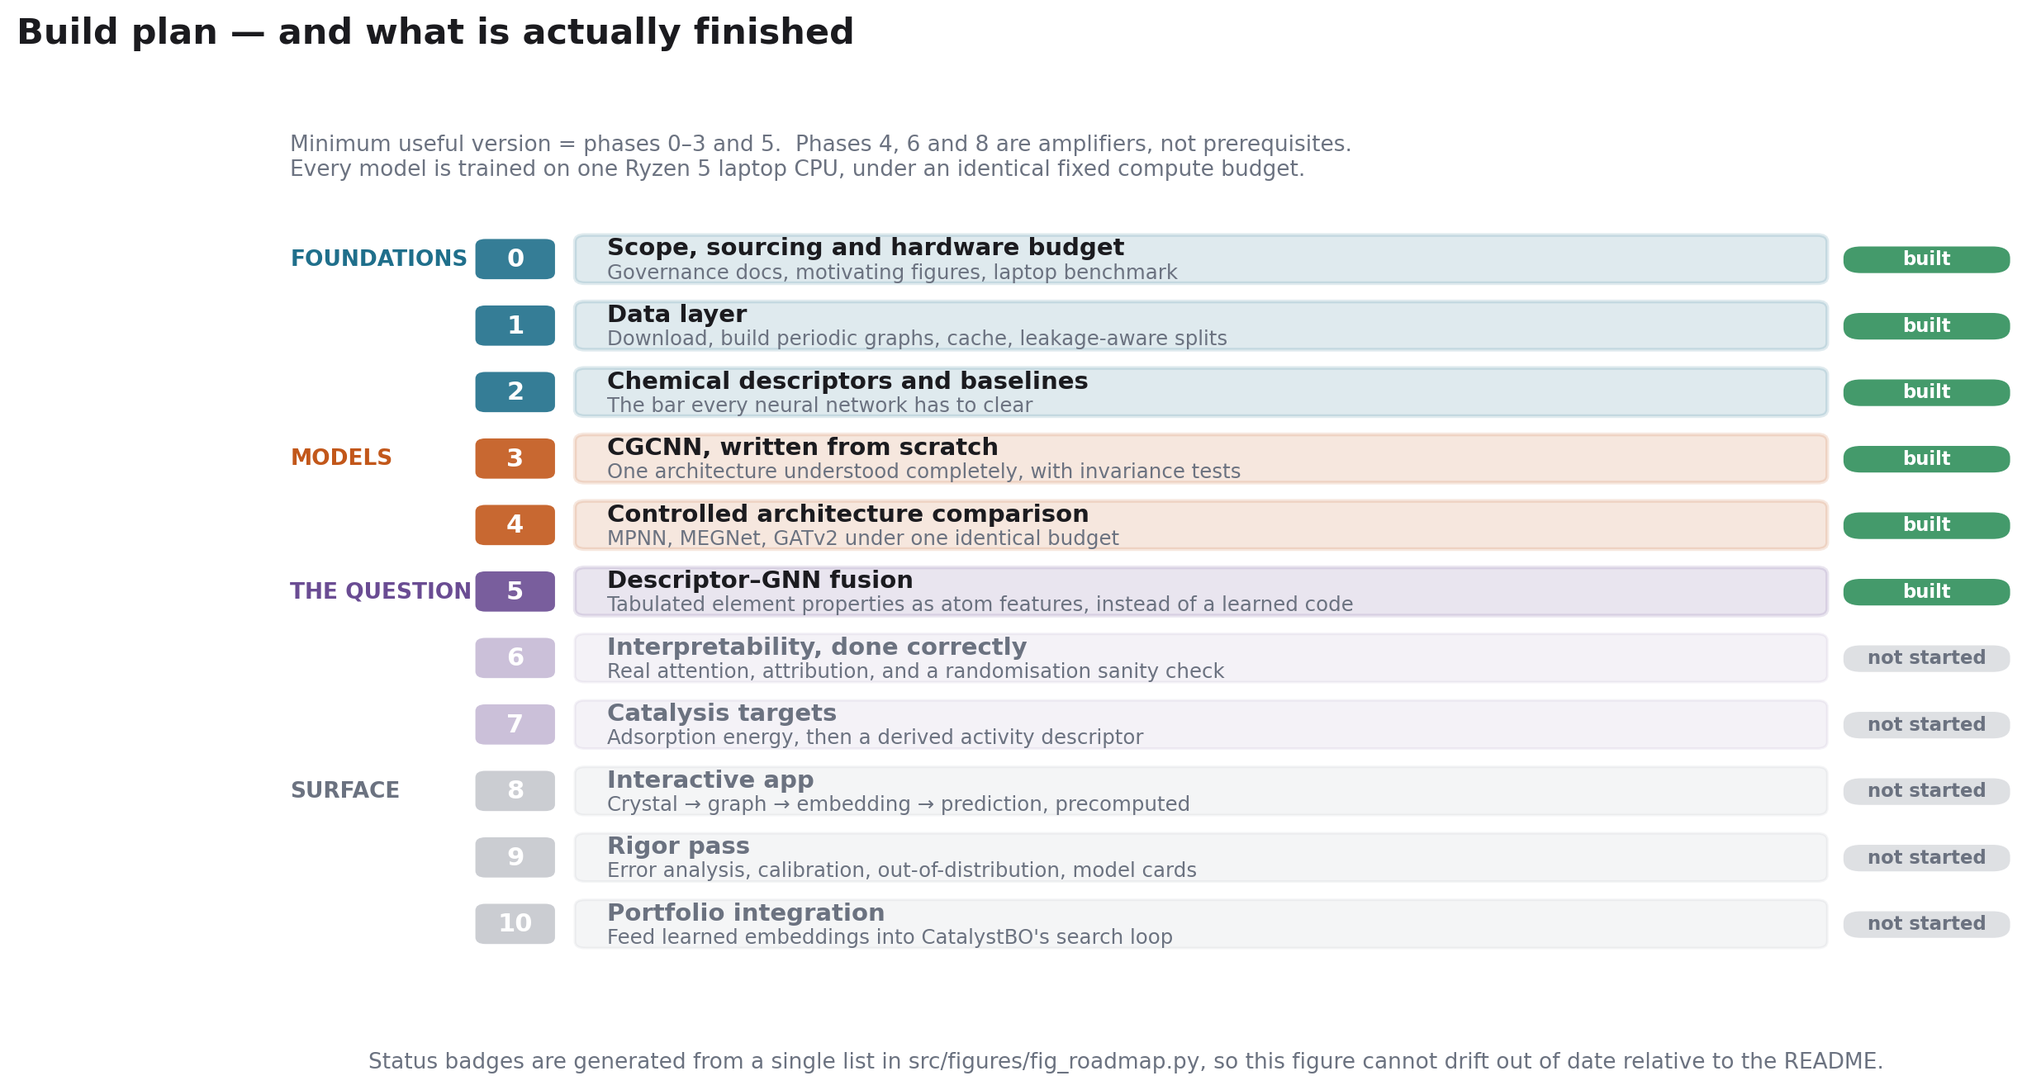
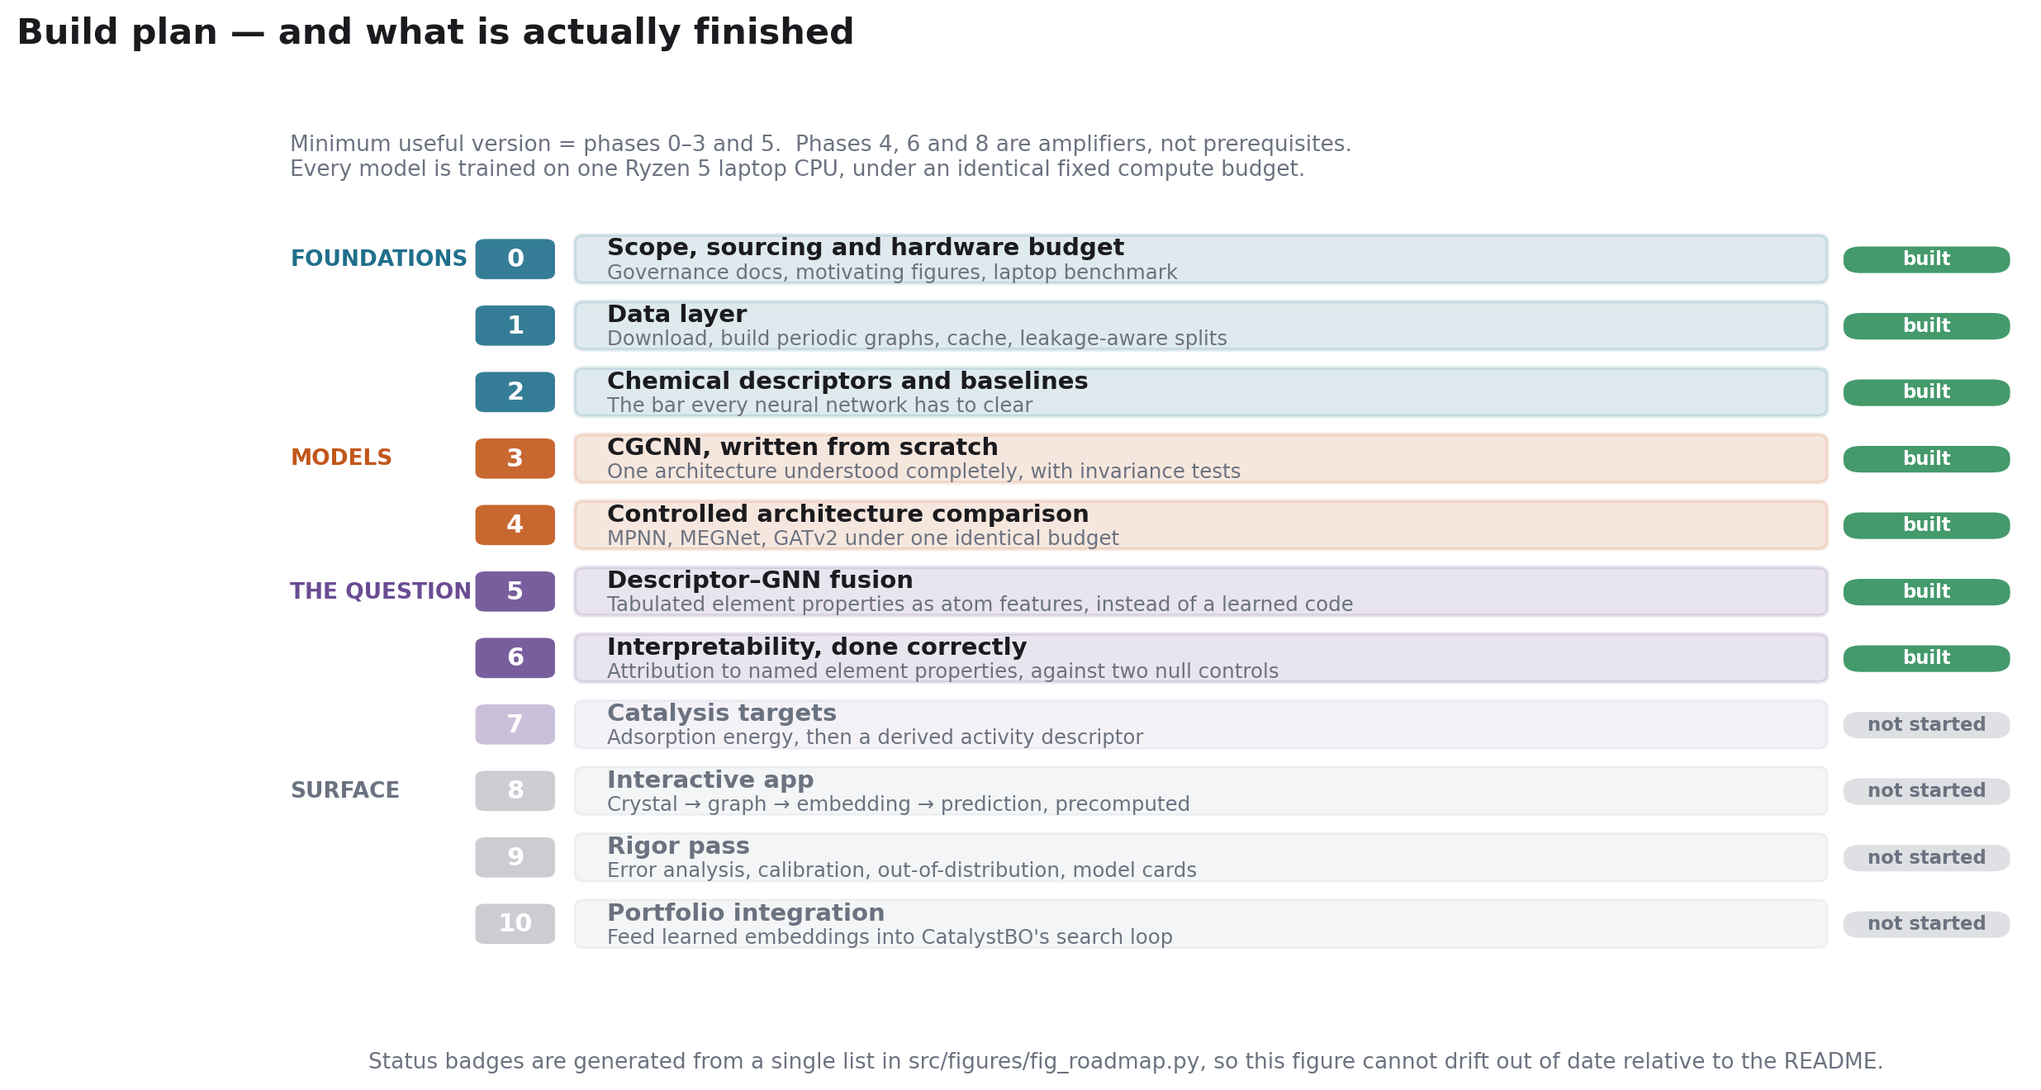
Phase 6 result: the model uses electron affinity, and ignores atomic mass
WHAT IT USED
------------
Raw attribution puts electronegativity first, which looks like a triumph until
the control does the same. A model trained on SHUFFLED band gaps also ranks
electronegativity first, so part of that ordering is the geometry of the property
table rather than anything learned. Reporting the raw ranking alone would have
been a mistake, and a flattering one.

Divided by the control, what training actually changed:

    electron affinity        13.8x
    Mendeleev number          4.6x
    is a lanthanide           4.2x
    is an actinide            3.1x
    is a transition metal     2.4x
    ...
    atomic number             0.4x
    atomic mass               0.3x

Electron affinity sets where a material's conduction band sits -- about as close
to the physical cause of a band gap as a single-element property gets -- and it
is the property training changed most. The Mendeleev number is next: a hand-built
ordering of the periodic table by chemical similarity, which is precisely the
structure a learned embedding failed to discover in Phase 5.

Atomic mass went DOWN to 0.3x. Mass correlates with nearly everything in the
periodic table and causes none of it; a model taking shortcuts would have leaned
on it. By family: electronic 41%, block 21%, size 17%, position 11%, thermal last
at 10% -- melting and boiling point being exactly the proxies a shortcut would
exploit.

THE CONTROLS, WHICH ARE THE ACTUAL CONTRIBUTION
[…]

Changed region(s): [[0.2181, 0.5591, 0.6232, 0.6212], [0.9037, 0.5902, 0.9972, 0.6212]]

diff --git a/src/figures/fig_attribution.py b/src/figures/fig_attribution.py
@@ -1,0 +1,242 @@
+"""Figure 14 -- which piece of chemistry the model actually used.
+
+Two rankings, because the naive one is misleading and the reason it is misleading
+is itself the interesting part.
+
+Panel A is raw attribution. Electronegativity tops it, which looks like a
+triumph -- until the control column shows that a model trained on SHUFFLED band
+gaps also puts electronegativity near the top. Some of that ranking is the
+geometry of the property table, not anything the model learned.
+
+Panel B divides by the control, leaving only what training changed. The picture
+that survives is sharper and more chemical than the raw one.
+
+Panel C is the sanity check, against a computed null rather than an assumed one.
+
+Run with:  python -m src.figures.fig_attribution
+"""
+
+from __future__ import annotations
+
+import json
+from pathlib import Path
+
+import matplotlib.pyplot as plt
+import numpy as np
+from matplotlib.patches import FancyBboxPatch, Patch
+
+from .style import (
+    use_house_style, caption,
+    STRUCTURE, COMPOSITION, FUSED, ACCENT, WARN, MUTED, INK, LIGHT,
+)
+from ..models.attribution import (cosine_null, enrichment, family_of, label_of,
+                                  profile_similarity, spearman)
+
+REPO = Path(__file__).resolve().parents[2]
+RESULTS = REPO / "results"
+OUT = RESULTS / "figures"
+
+FAMILY_COLOUR = {"electronic": ACCENT, "size": STRUCTURE, "position": FUSED,
+                 "block": COMPOSITION, "thermal": MUTED, "other": LIGHT}
+
+
+def load(split: str):
+    p = RESULTS / f"attribution_band_gap_{split}_nonmetals.json"
+    if not p.exists():
+        raise FileNotFoundError(
+            f"{p} missing. Run:\n    python scripts/explain.py --split {split}")
+    return json.loads(p.read_text(encoding="utf-8"))
+
+
+def panel_raw(ax, names, imp, ctrl_key):
+    """Raw attribution, with the control alongside so it cannot be over-read."""
+    t = imp["trained"] / imp["trained"].max()
+    c = imp[ctrl_key] / imp[ctrl_key].max()
+
+    top = np.argsort(-t)[:12]
+    y = np.arange(len(top)).astype(float)
+
+    ax.barh(y + 0.19, t[top], height=0.36, color=[FAMILY_COLOUR[family_of(names[j])]
+                                                  for j in top],
+            alpha=0.9, edgecolor="white", zorder=3)
+    ax.barh(y - 0.19, c[top], height=0.36, facecolor="none", edgecolor=WARN,
+            linewidth=1.4, hatch="///", zorder=3)
+
+    ax.set_yticks(y)
+    ax.set_yticklabels([label_of(names[j]) for j in top], fontsize=8.6)
+    ax.invert_yaxis()
+    ax.set_xlim(0, 1.14)
+    ax.set_xlabel("Share of the prediction it moved  (1.0 = the largest)")
+    ax.set_title("A.  Raw attribution — and why it cannot be read alone",
+                 loc="left", pad=22)
+    ax.grid(True, axis="x", alpha=0.4)
+    ax.set_axisbelow(True)
+    ax.tick_params(axis="y", length=0)
+
+    ax.legend(handles=[
+        Patch(facecolor=MUTED, label="the trained model"),
+        Patch(facecolor="none", edgecolor=WARN, hatch="///",
+              label="trained on SHUFFLED band gaps — learned nothing"),
+    ], fontsize=8.2, loc="lower right", framealpha=0.96)
+
+    ax.text(0.0, 1.035,
+            "the control ranks electronegativity first too — so this ranking is "
+            "partly the shape of the input table",
+            transform=ax.transAxes, fontsize=8.2, color=WARN, fontweight="bold",
+            ha="left", va="bottom")
+
+
+def panel_enrichment(ax, names, imp, ctrl_key):
+    """What training actually changed."""
+    e = enrichment(imp["trained"], imp[ctrl_key])
+    order = np.argsort(-e)
+    show = np.concatenate([order[:8], order[-4:]])
+    y = np.arange(len(show)).astype(float)
+
+    for yi, j in zip(y, show):
+        up = e[j] >= 1.0
+        ax.barh(yi, e[j], height=0.62,
+                color=FAMILY_COLOUR[family_of(names[j])] if up else MUTED,
+                alpha=0.9 if up else 0.55, edgecolor="white", zorder=3)
+        ax.text(e[j] + 0.18, yi, f"{e[j]:.1f}×", fontsize=8.6, fontweight="bold",
+                color=FAMILY_COLOUR[family_of(names[j])] if up else MUTED,
+                ha="left", va="center", zorder=6)
+
+    ax.axvline(1.0, color=INK, lw=1.6, zorder=5)
+    ax.text(1.15, y[0] - 0.95, "1.0 = training changed nothing", fontsize=8.0,
+            color=INK, ha="left", va="center")
+
+    ax.set_yticks(y)
+    ax.set_yticklabels([label_of(names[j]) for j in show], fontsize=8.6)
+    ax.set_ylim(len(show) - 0.4, -1.35)
+    ax.set_xlim(0, max(e[show]) * 1.22)
+    ax.set_xlabel("Attribution relative to the shuffled-label control")
+    ax.set_title("B.  What training actually changed", loc="left", pad=22)
+    ax.grid(True, axis="x", alpha=0.4)
+    ax.set_axisbelow(True)
+    ax.tick_params(axis="y", length=0)
+
+    # A visible break, so nobody reads the bottom four as ranks 9-12.
+    ax.axhline((y[7] + y[8]) / 2, color=MUTED, ls=":", lw=1.3, zorder=5)
+    ax.text(max(e[show]) * 1.19, (y[7] + y[8]) / 2 - 0.30,
+            "the four training pushed DOWN", fontsize=7.8, color=MUTED,
+            ha="right", va="bottom", style="italic")
+
+
+def panel_checks(ax, names, imp, blob):
+    ax.set_xlim(0, 10)
+    ax.set_ylim(0, 10)
+    ax.axis("off")
+    ax.set_title("C.  Does it just reproduce a control?", loc="left", pad=10)
+
+    null = cosine_null(len(names))
+    ax.text(0.1, 9.0,
+            f"Two UNRELATED non-negative profiles of {len(names)} numbers already\n"
+            f"score cosine {null['mean']:.2f} (90% of draws {null['p05']:.2f}–{null['p95']:.2f}). "
+            f"So a cosine near 0.8\nmeans nothing on its own. Spearman has its null at 0.",
+            fontsize=8.4, color=MUTED, ha="left", va="top", linespacing=1.6)
+
+    rows = [(k, imp[k]) for k in ("untrained", "shuffled_labels") if k in imp]
+    ax.text(0.1, 6.3, f"{'control':<20}{'cosine':>10}{'Spearman':>13}",
+            fontsize=8.6, fontweight="bold", color=INK, ha="left", va="center",
+            family="DejaVu Sans Mono")
+    for i, (k, v) in enumerate(rows):
+        cos = profile_similarity(imp["trained"], v)
+        rho = spearman(imp["trained"], v)
+        inside = null["p05"] <= cos <= null["p95"]
+        ax.text(0.1, 5.4 - i * 0.9,
+                f"{k:<20}{cos:>10.3f}{rho:>13.3f}",
+                fontsize=8.6, color=INK, ha="left", va="center",
+                family="DejaVu Sans Mono")
+        ax.text(7.6, 5.4 - i * 0.9,
+                "ordinary" if inside or cos < null["p05"] else "high",
+                fontsize=8.0, color=ACCENT if inside or cos < null["p05"] else WARN,
+                ha="left", va="center")
+
+    ax.add_patch(FancyBboxPatch(
+        (0.05, 1.1), 9.9, 2.2, boxstyle="round,pad=0.12,rounding_size=0.15",
+        facecolor=ACCENT, alpha=0.10, edgecolor=ACCENT, linewidth=1.5, zorder=2))
+    ax.text(0.35, 2.75, "Passes.", fontsize=9.6, fontweight="bold",
+            color=ACCENT, ha="left", va="center", zorder=6)
+    ax.text(0.35, 1.85,
+            "Neither control reproduces the trained ranking, so the\n"
+            "attribution describes this model rather than the method.",
+            fontsize=8.4, color=INK, ha="left", va="center", linespacing=1.55,
+            zorder=6)
+
+
+def panel_families(ax, names, imp):
+    t = imp["trained"]
+    fam = {}
+    for j, n in enumerate(names):
+        fam[family_of(n)] = fam.get(family_of(n), 0.0) + t[j]
+    total = sum(fam.values()) or 1.0
+    items = sorted(fam.items(), key=lambda kv: -kv[1])
+
+    left = 0.0
+    for name, v in items:
+        w = 100 * v / total
+        ax.barh(0, w, left=left, height=0.55, color=FAMILY_COLOUR[name],
+                alpha=0.9, edgecolor="white", zorder=3)
+        if w > 7:
+            ax.text(left + w / 2, 0, f"{name}\n{w:.0f}%", fontsize=8.2,
+                    fontweight="bold", color="white", ha="center", va="center",
+                    zorder=6, linespacing=1.4)
+        left += w
+
+    ax.set_xlim(0, 100)
+    ax.set_ylim(-0.5, 0.5)
+    ax.set_yticks([])
+    ax.set_xlabel("Share of all attribution  (%)")
+    ax.set_title("D.  Which kind of chemistry", loc="left", pad=8)
+    for side in ("left", "right", "top"):
+        ax.spines[side].set_visible(False)
+
+
+def main(split: str = "random") -> None:
+    use_house_style()
+    blob = load(split)
+    names = blob["properties"]
+    imp = {k: np.array(v["mean_abs"]) for k, v in blob["models"].items()}
+    ctrl_key = "shuffled_labels" if "shuffled_labels" in imp else "untrained"
+
+    fig = plt.figure(figsize=(15.8, 10.2))
+    gs = fig.add_gridspec(2, 2, height_ratios=[1.0, 0.62],
+                          width_ratios=[1.0, 1.0],
+                          left=0.115, right=0.975, top=0.845, bottom=0.135,
+                          hspace=0.42, wspace=0.30)
+
+    panel_raw(fig.add_subplot(gs[0, 0]), names, imp, ctrl_key)
+    panel_enrichment(fig.add_subplot(gs[0, 1]), names, imp, ctrl_key)
+    panel_checks(fig.add_subplot(gs[1, 0]), names, imp, blob)
+    panel_families(fig.add_subplot(gs[1, 1]), names, imp)
+
+    fig.suptitle("The model learned the chemistry a chemist would have picked",
+                 fontsize=16.0, fontweight="bold", y=0.995, x=0.006, ha="left")
+    fig.text(0.006, 0.947,
+             f"Band-gap predictions attributed to the 31 tabulated element properties each atom starts from. "
+             f"Integrated gradients over {blob['n_crystals']:,} test crystals, {blob['split']} split.",
+             fontsize=9.4, color=MUTED, ha="left", va="top")
+
+    caption(
+        fig,
+        "Electron affinity is the quantity that sets where a material's conduction band sits, and it is the single property training changed most — the model leans on it "
+        "roughly fourteen times\nharder than one that learned nothing. Next come the Mendeleev number, a hand-built ordering of the periodic table by chemical similarity, and the "
+        "f-block and transition-metal flags.\nMeanwhile atomic mass — which correlates with almost everything in the periodic table and causes none of it — is DOWN-weighted to 0.3×. "
+        "A model taking shortcuts would have done\nthe opposite. Raw attribution alone would not have shown this: the control ranks electronegativity first too, so panel A is partly "
+        "the shape of the input table rather than the model.",
+        y=0.012)
+
+    OUT.mkdir(parents=True, exist_ok=True)
+    path = OUT / "fig14_what_chemistry.png"
+    fig.savefig(path)
+    plt.close(fig)
+    print(f"wrote {path}")
+
+    e = enrichment(imp["trained"], imp[ctrl_key])
+    for j in np.argsort(-e)[:5]:
+        print(f"  {label_of(names[j]):<26}{e[j]:>6.1f}x")
+
+
+if __name__ == "__main__":
+    main()

diff --git a/src/figures/fig_roadmap.py b/src/figures/fig_roadmap.py
@@ -45,7 +45,7 @@ PHASES = [
     ("The question", 5, "Descriptor–GNN fusion",
      "Tabulated element properties as atom features, instead of a learned code", DONE),
     ("The question", 6, "Interpretability, done correctly",
-     "Real attention, attribution, and a randomisation sanity check", TODO),
+     "Attribution to named element properties, against two null controls", DONE),
     ("The question", 7, "Catalysis targets",
      "Adsorption energy, then a derived activity descriptor", TODO),
     ("Surface", 8, "Interactive app",

diff --git a/scripts/make_figures.py b/scripts/make_figures.py
@@ -38,6 +38,7 @@ FIGURES = {
     11: ("src.figures.fig_message_rules", "How each architecture weights a bond"),
     12: ("src.figures.fig_fusion", "Does the periodic table fix the collapse?"),
     13: ("src.figures.fig_what_is_an_ev", "What an error of 0.4 eV actually means"),
+    14: ("src.figures.fig_attribution", "Which chemistry the model actually used"),
 }
 
 

diff --git a/LIMITATIONS.md b/LIMITATIONS.md
@@ -83,13 +83,32 @@ attributions, and calls them that.
 ## 6. Interpretability results are not explanations of physics
 
 Attribution methods explain *the model*, not the material. A model can attribute
-importance to the chemically "right" atoms while having learned the relationship for
-the wrong reasons.
+importance to the chemically "right" properties while having learned the
+relationship for the wrong reasons, and the attribution would look identical.
 
-Phase 6 therefore includes a randomisation control: retrain on shuffled labels and
-re-run the attributions. If they still look plausible, they were never explaining
-anything. Interpretability results are reported alongside that control, and any case
-where methods disagreed is reported rather than quietly dropped.
+Phase 6 is reported against two controls — an untrained model, and one trained to
+convergence on shuffled labels (R² = −0.04, so it genuinely learned nothing).
+Rank correlation with the trained profile is +0.08 and +0.34, so neither
+reproduces it. That is the strongest statement the design supports: **the ranking
+describes this model rather than the attribution method**. It is not evidence
+about band-gap physics.
+
+Three specific caveats on the Phase 6 numbers:
+
+- **Raw importance is partly input geometry.** The shuffled control also ranks
+  electronegativity first. Only the control-corrected column ("what training
+  changed") should be read as being about the model, and the README leads with
+  that rather than the raw ranking.
+- **The enrichment ratio has an arbitrary floor.** Dividing by a control value
+  near zero would explode, so a floor of 0.02 is added to the denominator. That
+  caps the largest achievable enrichment and makes the exact multiple — 13.8×
+  for electron affinity — sensitive to the floor. The *ordering* is not.
+- **One seed, one split, 2,000 crystals.** Attribution was run on the random
+  split only, on a sample of the test set, from a single trained model. The
+  headline ordering is stable enough to report; specific multiples are not.
+
+My first version of this check also used invented thresholds and called an
+ordinary result "borderline" — see §16.
 
 ## 7. The activity descriptor amplifies error
 
@@ -250,7 +269,28 @@ shows, and the variant comparison beneath it is a single-split result. It would 
 reasonable to expect `both` to trail `properties` on the easier splits too, by a
 smaller margin; that has not been measured and the figure does not imply it.
 
-## 16. Single author, no independent replication
+## 16. A sanity check with a guessed threshold is not a sanity check
+
+The Phase 6 control originally compared importance profiles by cosine similarity
+with hand-picked thresholds: above 0.9 suspicious, below 0.7 fine. It reported
+the shuffled-label control at **0.785 — "borderline"**, which reads as a
+half-failed sanity check.
+
+It was nothing of the sort. Importance profiles are **non-negative by
+construction**, and two *unrelated* non-negative vectors of length 31 score a
+cosine of **0.753** on average (0.654–0.840 for 90% of draws). Both observed
+values sit inside that band. The thresholds had been chosen on the intuition that
+unrelated vectors score near zero — true for signed vectors, false here — so the
+check was mis-calibrated in the direction that manufactures an alarming number.
+
+Fixed by computing the null by sampling rather than assuming it, and by reporting
+Spearman rank correlation alongside, whose null is zero regardless of sign.
+
+Recorded because the failure mode is general and easy to repeat: a threshold that
+feels right, on a statistic whose null distribution was never checked, in a test
+whose entire purpose is to be harder to pass than the thing it guards.
+
+## 17. Single author, no independent replication
 
 Everything here was built and checked by one person. The mitigations — assertions
 that fail loudly, figures regenerated from source data rather than hand-edited, CI on

diff --git a/README.md b/README.md
@@ -363,7 +363,68 @@ that worked.
 > periodic trends, and falls apart the moment it meets an element outside its
 > training set. Handing it the periodic table costs nothing and fixes that.
 
-### 6. Two bugs that would have been completely silent
+### 6. So which chemistry did it actually use?
+
+![What chemistry](results/figures/fig14_what_chemistry.png)
+
+§5 showed the tabulated properties help. It did not say **which** ones — and "the
+model uses chemistry" is not a finding until you can name the chemistry.
+
+That question is only askable because of §5. When each atom started from a
+learned 64-number code there was nothing to attribute a prediction *to*: the
+numbers had no names and, as the diagnostic showed, no chemical structure either.
+Now every atom starts from 31 quantities with names and units.
+
+**The naive answer is misleading, and that is the interesting part.** Raw
+attribution puts electronegativity first — which looks like a triumph, until you
+run the same procedure on a model trained on **shuffled** band gaps and it puts
+electronegativity first too. Part of that ranking is the geometry of the property
+table, not anything the model learned.
+
+Dividing by the control leaves only what training changed:
+
+| Property | vs. a model that learned nothing |
+|---|---|
+| **Electron affinity** | **13.8×** |
+| Mendeleev number | 4.6× |
+| is a lanthanide | 4.2× |
+| is an actinide | 3.1× |
+| is a transition metal | 2.4× |
+| … | |
+| atomic number | 0.4× |
+| **atomic mass** | **0.3×** |
+
+**Electron affinity is the quantity that sets where a material's conduction band
+sits** — it is about as close to the physical cause of a band gap as a
+single-element property gets, and it is the one training changed most. Next is
+the **Mendeleev number**, a hand-built ordering of the periodic table by chemical
+similarity, then the f-block and transition-metal flags.
+
+**And atomic mass was pushed *down* to 0.3×.** Mass correlates with almost
+everything in the periodic table and causes none of it. A model taking shortcuts
+would have leaned on it. This one did the opposite.
+
+By family: **electronic 41%**, block 21%, size 17%, position 11%, and thermal
+last at 10% — melting and boiling point being exactly the proxies a shortcut
+would exploit.
+
+> **The controls are the contribution here, not the ranking.** Attribution
+> methods produce confident-looking rankings from models that learned nothing at
+> all ([Adebayo et al., NeurIPS 2018](https://arxiv.org/abs/1810.03292)). So the
+> same procedure was run on an untrained model and on one trained to convergence
+> on shuffled labels — which reached R² = −0.04, i.e. it genuinely learned
+> nothing. Rank correlation with the trained model: **+0.08** and **+0.34**.
+> Neither reproduces it.
+
+**One methodological error worth recording.** The first run reported the shuffled
+control at cosine 0.785 and called it "borderline". It is not — two *unrelated*
+non-negative profiles of 31 numbers score 0.75 on average. The threshold had been
+chosen by intuition on the assumption that unrelated vectors score near zero,
+which is true for signed vectors and false for importance profiles. The check now
+computes its null by sampling and reports Spearman alongside, whose null really
+is zero. **A sanity check whose threshold is guessed is not a sanity check.**
+
+### 7. Two bugs that would have been completely silent
 
 Both were caught by tests that check physics, not code paths, and both are
 written up in full below:
